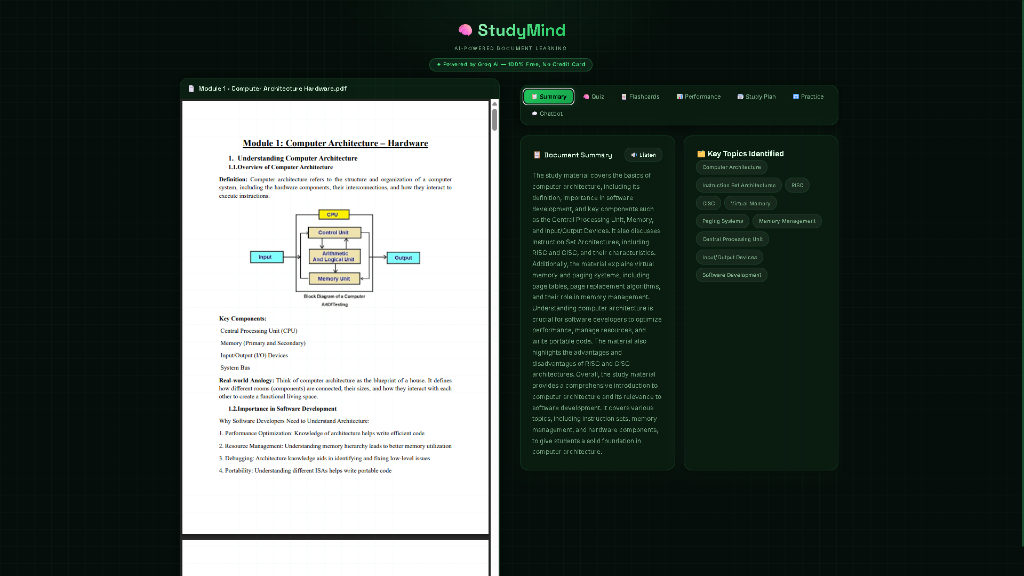
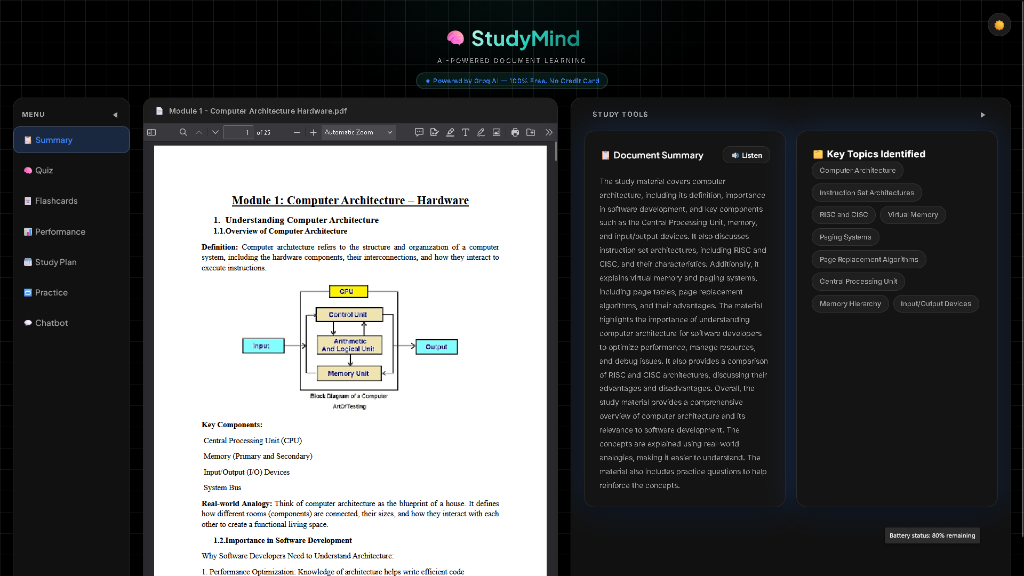
docs: remove demo video and update README screenshots

diff --git a/README.md b/README.md
@@ -13,15 +13,7 @@
 
 </div>
 
----
 
-## 🎬 Demo Video
-
-> Click the image below to watch a live demo of StudyMind in action.
-
-![StudyMind Demo](assets/demo.webp)
-
----
 
 ## 📖 About
 
@@ -149,8 +141,7 @@ Study_Mind/
 ├── style.css        # Premium dark green theme
 ├── app.js           # All AI logic & 9 features
 ├── assets/
-│   ├── screenshot.png   # App screenshot
-│   └── demo.webp        # Demo recording
+│   └── split_screen.png   # App screenshot
 └── README.md
 ```
 
